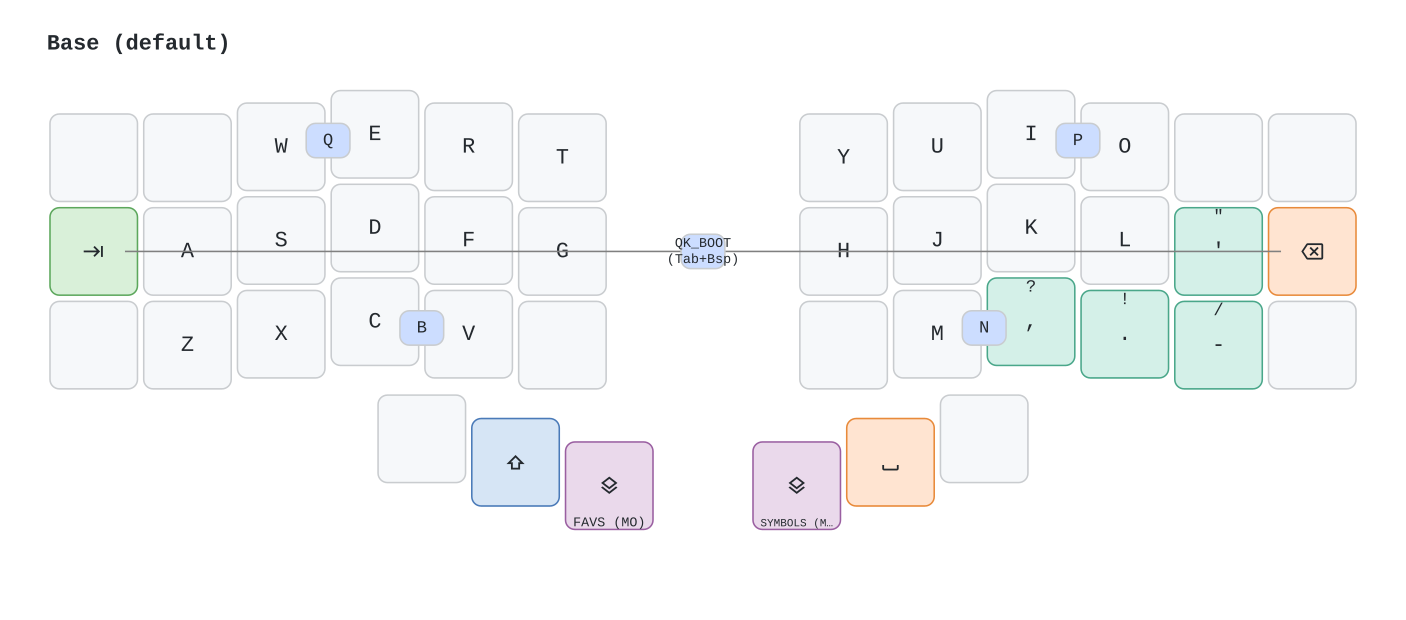
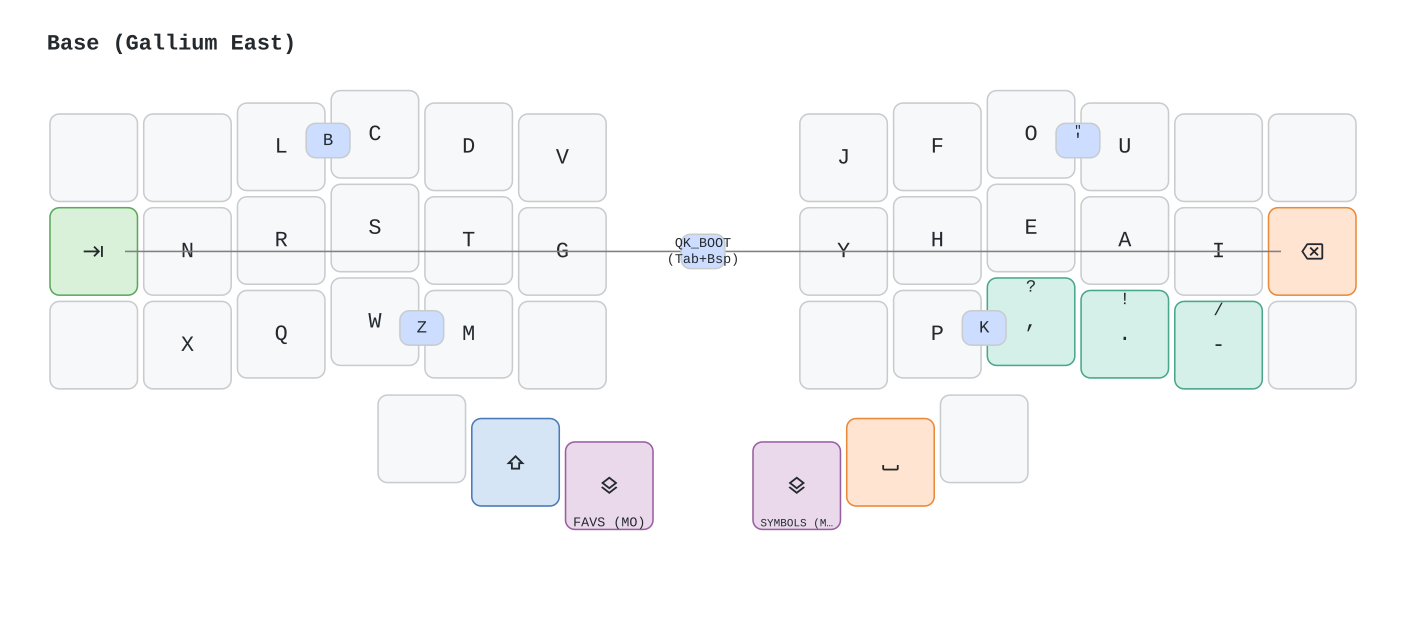
flips GAllium to default

diff --git a/keyboards/6x3_3/keymaps/crafted/layouts/gallium_east.h b/keyboards/6x3_3/keymaps/crafted/layouts/gallium_east.h
@@ -20,7 +20,7 @@
 
 #ifdef XC_WEAK_CORNERS
     #define WC_OUT_01 KC_B
-    #define WC_OUT_10 KC_COMM
+    #define WC_OUT_10 KC_QUOT
     #define WC_OUT_29 KC_Z
     #define WC_OUT_30 KC_K
 #endif